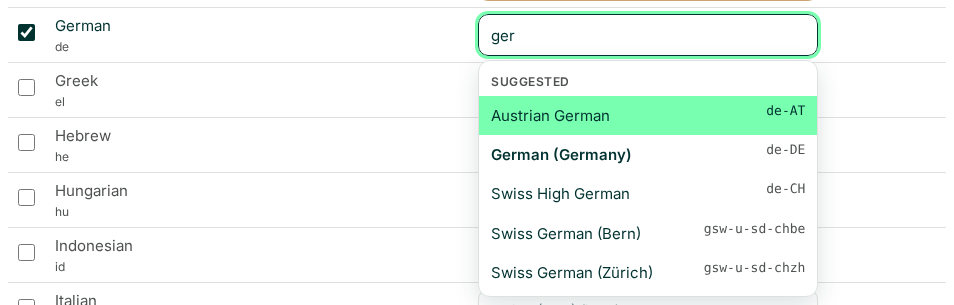
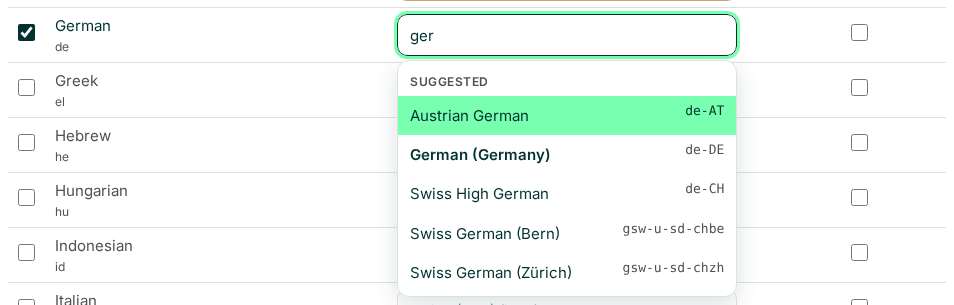
Translation review: on/off per target language
Translations into a language with "Translation review" ticked (Settings →
Languages, next to its Supertext code) go through Supertext's review service
(the Localization Review translation proxy), where reviewers correct them on
the website; corrections come back with the next translation. Other languages
keep going directly to Supertext. New server variable SUPERTEXT_REVIEW_URL
(default: Supertext's review service, '' = off everywhere, column hidden),
Account.reviewLanguages (JSON, existing accounts start with none), a second SDK
client created on first use (SupertextClient.forReview), strings in
en/de/fr/it, tests, docs and the settings screenshots. The key check, reports
and file export/import never use the review service.

Claude-Session: https://claude.ai/code/session_01EnSTWcWHurd9UcMU2SVApV

diff --git a/tests/flow.test.ts b/tests/flow.test.ts
@@ -1,5 +1,6 @@
 import { SDK_VERSION } from 'supertext-sdk';
 import { describe, expect, it } from 'vitest';
+import { REVIEW_URL } from '../src/config.js';
 import { PORTAL_ID, setup, STANDARD_SETTINGS } from './helpers.js';
 
 /** The language version of `sourceId` in `language`, as the stand-in has it now. */
@@ -302,6 +303,55 @@ describe('languages', () => {
     expect(row('fr-be')).toContain('<option value="" selected="">— choose —');
     expect(html).not.toContain('<datalist');
     expect(row('de')).toContain('data-combobox');
+  });
+});
+
+describe('Translation review', () => {
+  it('sends languages with review on through the review service (all four calls), the others directly', async () => {
+    const env = setup({ SUPERTEXT_REVIEW_URL: 'https://review.test/v1/' });
+    await env.connect();
+    await env.saveSettings([...STANDARD_SETTINGS, ['review', 'de-ch']]);
+    expect((await env.store.getAccount(PORTAL_ID))!.reviewLanguages).toEqual(['de-ch']);
+    const html = await (await env.request('/settings')).text();
+    expect(html).toContain('<th>Translation review</th>');
+    expect(html).toMatch(/name="review" value="de-ch" checked/);
+    expect(html).not.toMatch(/name="review" value="fr-ch" checked/);
+
+    env.supertextRequests.length = 0;
+    const { job } = await env.translate('site-page', '101', ['de-ch', 'fr-ch']);
+    expect(job.items.map((item) => item.state)).toEqual(['created', 'created']);
+    expect(version(env, 'site-page', '101', 'de-ch')!.name).toBe('Über uns');
+    const calls = (host: string) => env.supertextRequests.filter((call) => call.includes(` ${host}/`)).map((call) => call.replace(/\/[0-9a-f-]{8,}/, '/{id}'));
+    expect(calls('review.test')).toEqual([
+      'POST review.test/v1/translate/ai/file',
+      'GET review.test/v1/translate/ai/file/{id}/status',
+      'GET review.test/v1/translate/ai/file/{id}/translation',
+      'DELETE review.test/v1/translate/ai/file/{id}',
+    ]);
+    expect(calls('supertext.test').filter((call) => call.includes('/translate/'))).toEqual([
+      'POST supertext.test/v1/translate/ai/file',
+      'GET supertext.test/v1/translate/ai/file/{id}/status',
+      'GET supertext.test/v1/translate/ai/file/{id}/translation',
+      'DELETE supertext.test/v1/translate/ai/file/{id}',
+    ]);
+    expect(env.supertext.documents.map((d) => d.target)).toEqual(['de-CH', 'fr-CH']);
+  });
+
+  it('is off for every language with an empty SUPERTEXT_REVIEW_URL (no column, everything direct)', async () => {
+    const env = setup({ SUPERTEXT_REVIEW_URL: '' });
+    await env.connect();
+    await env.saveSettings([...STANDARD_SETTINGS, ['review', 'de-ch']]);
+    expect(await (await env.request('/settings')).text()).not.toContain('Translation review');
+    await env.translate('site-page', '101', ['de-ch']);
+    expect(env.supertextRequests.some((call) => call.includes('review.test'))).toBe(false);
+    expect(env.supertext.documents.map((d) => d.target)).toEqual(['de-CH']);
+  });
+
+  it("defaults to Supertext's review service, off for every language until ticked", async () => {
+    const env = setup({ SUPERTEXT_REVIEW_URL: undefined as unknown as string });
+    expect(env.config.reviewUrl).toBe(REVIEW_URL);
+    await env.connect();
+    expect((await env.store.getAccount(PORTAL_ID))!.reviewLanguages).toEqual([]);
   });
 });
 

diff --git a/tests/supertext.test.ts b/tests/supertext.test.ts
@@ -65,4 +65,40 @@ describe('the app layer over the Supertext SDK', () => {
     expect(error.code).toBe('languagePair');
     expect(error.params).toEqual({ source: 'en', target: 'xx-XX' });
   });
+
+  it('sends a review language to the review service with the same key and User-Agent, and only builds it once', async () => {
+    const seen: string[] = [];
+    let html = '';
+    const fetchFn = (async (url: string, init: RequestInit) => {
+      const headers = init.headers as Record<string, string>;
+      seen.push(`${init.method ?? 'GET'} ${url} ${headers.Authorization ?? headers.authorization} ${headers['User-Agent']}`);
+      if (init.method === 'POST') {
+        const form = await new Request(url, { method: 'POST', body: init.body, headers }).formData();
+        html = await (form.get('file') as File).text();
+        return Response.json({ file_id: 'f1' });
+      }
+      if (url.endsWith('/status')) return Response.json({ status: 'done' });
+      if (url.endsWith('/translation')) return new Response(html.replace(/>Hello</g, '>Hallo<'));
+      return Response.json({});
+    }) as unknown as typeof fetch;
+    const client = new SupertextClient({ apiKey: 'k', endpoint: 'https://api.test/v1', reviewEndpoint: 'https://review.test/v1/', fetch: fetchFn });
+    expect(client.forReview(false)).toBe(client);
+    const review = client.forReview(true);
+    expect(review).not.toBe(client);
+    expect(client.forReview(true)).toBe(review);
+    expect(await review.translateSegments(['Hello'], { targetLanguage: 'de-CH', sourceLanguage: 'en' })).toEqual(['Hallo']);
+    expect(seen.map((line) => line.split(' ').slice(0, 2).join(' '))).toEqual([
+      'POST https://review.test/v1/translate/ai/file',
+      'GET https://review.test/v1/translate/ai/file/f1/status',
+      'GET https://review.test/v1/translate/ai/file/f1/translation',
+      'DELETE https://review.test/v1/translate/ai/file/f1',
+    ]);
+    expect(seen.every((line) => line.includes('Supertext-Auth-Key k') && /HubSpot-Supertext-Translation\//.test(line))).toBe(true);
+  });
+
+  it('has no review client without a review URL or with the API URL itself', () => {
+    expect(new SupertextClient({ apiKey: 'k', reviewEndpoint: '' }).forReview(true).endpoint).toBe('https://api.supertext.com/v1/');
+    const same = new SupertextClient({ apiKey: 'k', endpoint: 'https://api.test/v1/', reviewEndpoint: 'https://api.test/v1' });
+    expect(same.forReview(true)).toBe(same);
+  });
 });

diff --git a/src/supertext/client.ts b/src/supertext/client.ts
@@ -21,6 +21,11 @@ export interface ClientOptions {
   apiKey: string;
   /** Default: the live API (https://api.supertext.com/v1/). Points at a stand-in in tests. */
   endpoint?: string;
+  /**
+   * The review service for languages with *Translation review* on (see `forReview`).
+   * '' or the same URL as `endpoint` = no review client.
+   */
+  reviewEndpoint?: string;
   pollIntervalMs?: number;
   pollTimeoutMs?: number;
   /** Injected for tests. */
@@ -49,13 +54,19 @@ export class SupertextError extends LocalizedError {
   public readonly status?: number;
 }
 
+const DEFAULT_ENDPOINT = 'https://api.supertext.com/v1/';
+const sameUrl = (a: string, b: string) => a.trim().replace(/\/+$/, '') === b.trim().replace(/\/+$/, '');
+
 export class SupertextClient {
   private readonly client: SdkClient;
+  private readonly options: ClientOptions;
+  private reviewClient?: SupertextClient;
 
   constructor(options: ClientOptions) {
     if (!options.apiKey?.trim()) {
       throw new SupertextError('No Supertext API key configured.', 'noApiKey');
     }
+    this.options = options;
     this.client = new SdkClient(options.apiKey, {
       baseUrl: options.endpoint || undefined,
       pollIntervalMs: options.pollIntervalMs,
@@ -64,6 +75,24 @@ export class SupertextClient {
       fetch: options.fetch as FetchLike | undefined,
       sleep: options.sleep,
     });
+  }
+
+  /** The base URL this client sends to. */
+  get endpoint(): string {
+    return this.options.endpoint || DEFAULT_ENDPOINT;
+  }
+
+  /**
+   * The client for a language: the review service when its *Translation review* is on (same key,
+   * timeouts, transport and User-Agent; created on first use), else this one. Without a review
+   * URL (or with the API's own URL), always this one. A translation is uploaded, polled,
+   * downloaded and deleted with the same client (`translateSegments` does all four).
+   */
+  forReview(review: boolean): SupertextClient {
+    const reviewUrl = this.options.reviewEndpoint?.trim() ?? '';
+    if (!review || !reviewUrl || sameUrl(reviewUrl, this.endpoint)) return this;
+    this.reviewClient ??= new SupertextClient({ ...this.options, endpoint: reviewUrl, reviewEndpoint: '' });
+    return this.reviewClient;
   }
 
   /**

diff --git a/src/views/settings.tsx b/src/views/settings.tsx
@@ -68,6 +68,8 @@ export interface SettingsPageProps {
   invalidCodes?: string;
   /** The account granted the knowledge base scopes. */
   knowledgeBase: boolean;
+  /** A review service is set (SUPERTEXT_REVIEW_URL not empty): show the Translation review column. */
+  review: boolean;
   /** This browser's interface language: chosen in the settings, or 'auto' (the browser's). */
   uiLanguage: 'auto' | (typeof LOCALES)[number];
 }
@@ -171,6 +173,7 @@ export function SettingsPage(props: SettingsPageProps) {
                 <th></th>
                 <th></th>
                 <th>{t.t('settings.languages.code')}</th>
+                {props.review && <th>{t.t('settings.languages.review')}</th>}
               </tr>
             </thead>
             <tbody>
@@ -215,11 +218,26 @@ export function SettingsPage(props: SettingsPageProps) {
                         <optgroup label={t.t('settings.languages.all')}>{others.map(option)}</optgroup>
                       </select>
                     </td>
+                    {props.review && (
+                      <td class="review">
+                        <label>
+                          <input
+                            type="checkbox"
+                            name="review"
+                            value={code}
+                            checked={account.reviewLanguages.includes(code)}
+                            aria-label={`${t.t('settings.languages.review')}: ${languageName(code, t.locale)}`}
+                          />
+                          <span class="review-label">{t.t('settings.languages.review')}</span>
+                        </label>
+                      </td>
+                    )}
                   </tr>
                 );
               })}
             </tbody>
           </table>
+          {props.review && <p class="help">{t.t('settings.languages.reviewHint')}</p>}
           <p class="help">{t.t('settings.languages.blogHint')}</p>
         </section>
 

diff --git a/src/config.ts b/src/config.ts
@@ -19,6 +19,11 @@ export interface Config {
   /** Default Supertext API key for accounts that haven't entered their own (the demo account). */
   supertextApiKey: string;
   supertextEndpoint: string;
+  /**
+   * SUPERTEXT_REVIEW_URL: the review service for languages with *Translation review* on
+   * (default: Supertext's review service, REVIEW_URL; '' turns review off for every language).
+   */
+  reviewUrl: string;
   databaseUrl: string;
   /** Key for encrypting stored tokens and API keys; falls back to a key derived from the client secret. */
   encryptionKey: string;
@@ -27,6 +32,14 @@ export interface Config {
   /** SUPERTEXT_REPORT_URL: where version reports go ('' = Plugin Health's default, the live Commando Center). Tests point it at a stand-in. */
   reportUrl: string;
 }
+
+/**
+ * Supertext's review service (the translation proxy of Supertext Localization Review): it speaks
+ * the same API v1, forwards to the live Supertext API with the account's key and keeps every
+ * translation, so reviewers can correct them on the website. Used for languages with
+ * *Translation review* on.
+ */
+export const REVIEW_URL = 'https://localizationreview-production.up.railway.app/v1/';
 
 export const DEFAULT_SCOPES = 'oauth content';
 export const DEFAULT_OPTIONAL_SCOPES = 'cms.knowledge_base.articles.read cms.knowledge_base.articles.write';
@@ -46,6 +59,7 @@ export function loadConfig(env: NodeJS.ProcessEnv = process.env): Config {
     sessionSecret: env.SESSION_SECRET ?? '',
     supertextApiKey: env.SUPERTEXT_API_KEY ?? '',
     supertextEndpoint: env.SUPERTEXT_API_ENDPOINT ?? '',
+    reviewUrl: (env.SUPERTEXT_REVIEW_URL ?? REVIEW_URL).trim(),
     databaseUrl: env.DATABASE_URL ?? '',
     encryptionKey: env.APP_ENCRYPTION_KEY ?? '',
     versionReports: env.SUPERTEXT_VERSION_REPORTS,

diff --git a/src/app.ts b/src/app.ts
@@ -59,6 +59,8 @@ export function services(deps: AppDeps) {
     new SupertextClient({
       apiKey: account.apiKey || config.supertextApiKey,
       endpoint: config.supertextEndpoint || undefined,
+      // Languages with Translation review on go through the review service (see SupertextClient.forReview).
+      reviewEndpoint: config.reviewUrl,
       fetch: deps.fetch,
     });
   const reporting = new Reporting({ config, store: deps.store, fetch: deps.fetch, onTask: deps.onJob });
@@ -417,6 +419,7 @@ export function createApp(deps: AppDeps) {
           saved: c.req.query('saved') === '1',
           invalidCodes: c.req.query('invalid') || undefined,
           knowledgeBase: knowledgeBase(session.account),
+          review: config.reviewUrl !== '',
           uiLanguage: (() => {
             const chosen = getCookie(c, 'st_locale') ?? '';
             return /^(en|de|fr|it)$/.test(chosen) ? (chosen as 'en' | 'de' | 'fr' | 'it') : 'auto';
@@ -458,6 +461,11 @@ export function createApp(deps: AppDeps) {
       else invalid.push(code);
     }
     account.languageCodes = codes;
+    // Translation review per language (the column is only shown while a review service is set).
+    if (config.reviewUrl) {
+      const review = form.review === undefined ? [] : Array.isArray(form.review) ? form.review : [form.review];
+      account.reviewLanguages = [...new Set(review.map(String))].filter(isLanguage);
+    }
     if (!reporting.fixedByEnvironment) account.versionReports = field('versionReports') === '1';
 
     // The interface language belongs to this browser (each colleague picks their own), not to the account.

diff --git a/tests/helpers.ts b/tests/helpers.ts
@@ -11,11 +11,15 @@ export function setup(env: Record<string, string> = {}) {
   const hubspot = createHubSpotStandin();
   const supertext = createSupertextStandin();
   const store = new MemoryStore();
+  /** Requests to Supertext and to the review service (review.test, the same stand-in): "METHOD host/path". */
+  const supertextRequests: string[] = [];
   const fetchFn = (async (input: string | URL | Request, init?: RequestInit) => {
     const request = new Request(input, init);
-    const host = new URL(request.url).host;
+    const url = new URL(request.url);
+    const host = url.host;
     if (host === 'hubspot.test') return hubspot.handle(request);
-    if (host === 'supertext.test' || host === 'center.test') return supertext.handle(request);
+    if (host === 'supertext.test' || host === 'review.test') supertextRequests.push(`${request.method} ${host}${url.pathname}`);
+    if (host === 'supertext.test' || host === 'review.test' || host === 'center.test') return supertext.handle(request);
     throw new Error(`Unexpected request to ${request.url}`);
   }) as typeof fetch;
   const config = loadConfig({
@@ -105,7 +109,7 @@ export function setup(env: Record<string, string> = {}) {
   const clearCookies = () => {
     cookies = {};
   };
-  return { app, hubspot, supertext, store, config, request, connect, csrf, api, saveSettings, translate, settle, onJob, fetchFn, clearCookies };
+  return { app, hubspot, supertext, supertextRequests, store, config, request, connect, csrf, api, saveSettings, translate, settle, onJob, fetchFn, clearCookies };
 }
 
 const PORTAL = '48210377';

diff --git a/tests/docs/screenshots.ts b/tests/docs/screenshots.ts
@@ -35,6 +35,8 @@ async function main() {
   const supertext = createSupertextStandin();
   const hubspotUrl = await listen((request) => hubspot.handle(request));
   const supertextUrl = await listen((request) => supertext.handle(request));
+  // The review service for languages with Translation review on: the same stand-in, never the live one.
+  const reviewUrl = await listen((request) => supertext.handle(request));
   const port = 8790;
   const appUrl = `http://127.0.0.1:${port}`;
   const app = createApp({
@@ -45,6 +47,7 @@ async function main() {
       HUBSPOT_APP_BASE: hubspotUrl,
       HUBSPOT_API_BASE: hubspotUrl,
       SUPERTEXT_API_ENDPOINT: `${supertextUrl}/v1/`,
+      SUPERTEXT_REVIEW_URL: `${reviewUrl}/v1/`,
       // Version reports go to the stand-in, never to the live Commando Center.
       SUPERTEXT_REPORT_URL: `${supertextUrl}/report`,
     }),
@@ -70,6 +73,8 @@ async function main() {
   await page.fill('input[name="apiKey"]', 'Supertext-Auth-Key 0123456789abcdef');
   await page.selectOption('select[name="sourceLanguage"]', 'en');
   for (const code of ['de-ch', 'fr-ch', 'it-ch', 'de']) await page.check(`#t-${code}`);
+  // Translation review on for Swiss German.
+  await page.check('input[name="review"][value="de-ch"]');
   // The Supertext code is a searchable dropdown: type part of a name or code.
   const combo = page.locator('#targets tr:has(#t-de) .combo-input');
   await combo.click();

diff --git a/public/app.css b/public/app.css
@@ -159,6 +159,10 @@ td.lang { font-size: 12px; color: var(--muted); white-space: nowrap; }
 .combo-group { padding: 8px 12px 4px; font-size: 12px; font-weight: 600; text-transform: uppercase; letter-spacing: .04em; color: var(--muted); }
 .combo-empty { padding: 8px 12px; color: var(--muted); }
 .codes .hs-code { display: block; font-size: 12px; color: var(--muted); }
+/* Translation review: a checkbox per language; its label only where the table header is hidden (phones). */
+.codes th:nth-child(4), .codes td.review { text-align: center; white-space: nowrap; }
+.codes td.review label { display: inline-flex; align-items: center; gap: 6px; cursor: pointer; }
+.codes .review-label { display: none; }
 html { -webkit-text-size-adjust: 100%; }
 body { overflow-x: hidden; }
 
@@ -193,6 +197,9 @@ body { overflow-x: hidden; }
   .codes td:nth-child(2) { grid-area: name; }
   .codes td:nth-child(2) .hs-code { display: inline; margin-left: 6px; }
   .codes td:nth-child(3) { grid-area: code; }
+  .codes tr:has(td.review) { grid-template-areas: "check name" "check code" "check review"; }
+  .codes td.review { grid-area: review; text-align: left; }
+  .codes .review-label { display: inline; font-size: 14px; }
   .codes select, .combo { max-width: none; }
   .codes select, .combo-input { font-size: 16px; min-height: 40px; } /* 16px: no zoom on iPhone */
   table.results, table.results tbody { display: block; }

diff --git a/src/i18n/fr.ts b/src/i18n/fr.ts
@@ -105,6 +105,9 @@ export const fr: Messages = {
   'settings.languages.code': 'Code Supertext',
   'settings.languages.codeHint':
     'Choisissez pour chaque langue celle dans laquelle Supertext traduit, par exemple Allemand suisse (de-CH) pour l’allemand. Les variantes de la même langue figurent en premier. Chaque langue est présélectionnée avec une suggestion : le même code si le code HubSpot est déjà un code Supertext (de-ch, es, nl), sinon la variante usuelle (allemand → de-DE, anglais → en-US, chinois (Chine) → zh-Hans, espagnol (Mexique) → es). Une langue sans suggestion affiche — choisir — et n’est traduite qu’une fois son code choisi.',
+  'settings.languages.review': 'Révision des traductions',
+  'settings.languages.reviewHint':
+    'Révision des traductions : les traductions vers une langue cochée ici passent par le service de révision de Supertext, afin que les réviseurs puissent les vérifier et les corriger directement sur le site avec l’extension Supertext Localization Review. Leurs corrections sont reprises lors de la prochaine traduction du contenu vers cette langue.',
   'settings.languages.suggested': 'Suggérées',
   'settings.languages.all': 'Toutes les langues Supertext',
   'settings.languages.search': 'Saisissez un nom ou un code',

diff --git a/src/i18n/de.ts b/src/i18n/de.ts
@@ -108,6 +108,9 @@ export const de: Messages = {
   'settings.languages.code': 'Supertext-Code',
   'settings.languages.codeHint':
     'Wählen Sie für jede Sprache, in welche Sprache Supertext übersetzt, zum Beispiel Schweizer Hochdeutsch (de-CH) für Deutsch. Die Varianten derselben Sprache stehen zuoberst. Vorausgewählt ist jeweils ein Vorschlag: derselbe Code, wo der HubSpot-Code bereits ein Supertext-Code ist (de-ch, es, nl), sonst die übliche Variante (Deutsch → de-DE, Englisch → en-US, Chinesisch (China) → zh-Hans, Spanisch (Mexiko) → es). Eine Sprache ohne Vorschlag zeigt — auswählen — und wird erst übersetzt, wenn Sie ihren Code wählen.',
+  'settings.languages.review': 'Übersetzungsprüfung',
+  'settings.languages.reviewHint':
+    'Übersetzungsprüfung: Übersetzungen in eine hier angekreuzte Sprache laufen über den Prüfdienst von Supertext, damit Prüferinnen und Prüfer sie mit der Erweiterung Supertext Localization Review direkt auf der Website kontrollieren und korrigieren können. Ihre Korrekturen werden beim nächsten Übersetzen des Inhalts in diese Sprache übernommen.',
   'settings.languages.suggested': 'Vorgeschlagen',
   'settings.languages.all': 'Alle Supertext-Sprachen',
   'settings.languages.search': 'Name oder Code eingeben',

diff --git a/src/i18n/it.ts b/src/i18n/it.ts
@@ -105,6 +105,9 @@ export const it: Messages = {
   'settings.languages.code': 'Codice Supertext',
   'settings.languages.codeHint':
     'Scelga per ogni lingua in quale lingua traduce Supertext, per esempio Alto tedesco svizzero (de-CH) per il tedesco. Le varianti della stessa lingua sono in cima. Ogni lingua è preselezionata con un suggerimento: lo stesso codice se il codice HubSpot è già un codice Supertext (de-ch, es, nl), altrimenti la variante usuale (tedesco → de-DE, inglese → en-US, cinese (Cina) → zh-Hans, spagnolo (Messico) → es). Una lingua senza suggerimento mostra — scegliere — e viene tradotta solo dopo che avrà scelto il suo codice.',
+  'settings.languages.review': 'Revisione delle traduzioni',
+  'settings.languages.reviewHint':
+    'Revisione delle traduzioni: le traduzioni in una lingua selezionata qui passano dal servizio di revisione di Supertext, così i revisori possono controllarle e correggerle direttamente sul sito con l’estensione Supertext Localization Review. Le loro correzioni vengono riprese alla prossima traduzione del contenuto in questa lingua.',
   'settings.languages.suggested': 'Suggerite',
   'settings.languages.all': 'Tutte le lingue Supertext',
   'settings.languages.search': 'Digiti un nome o un codice',
